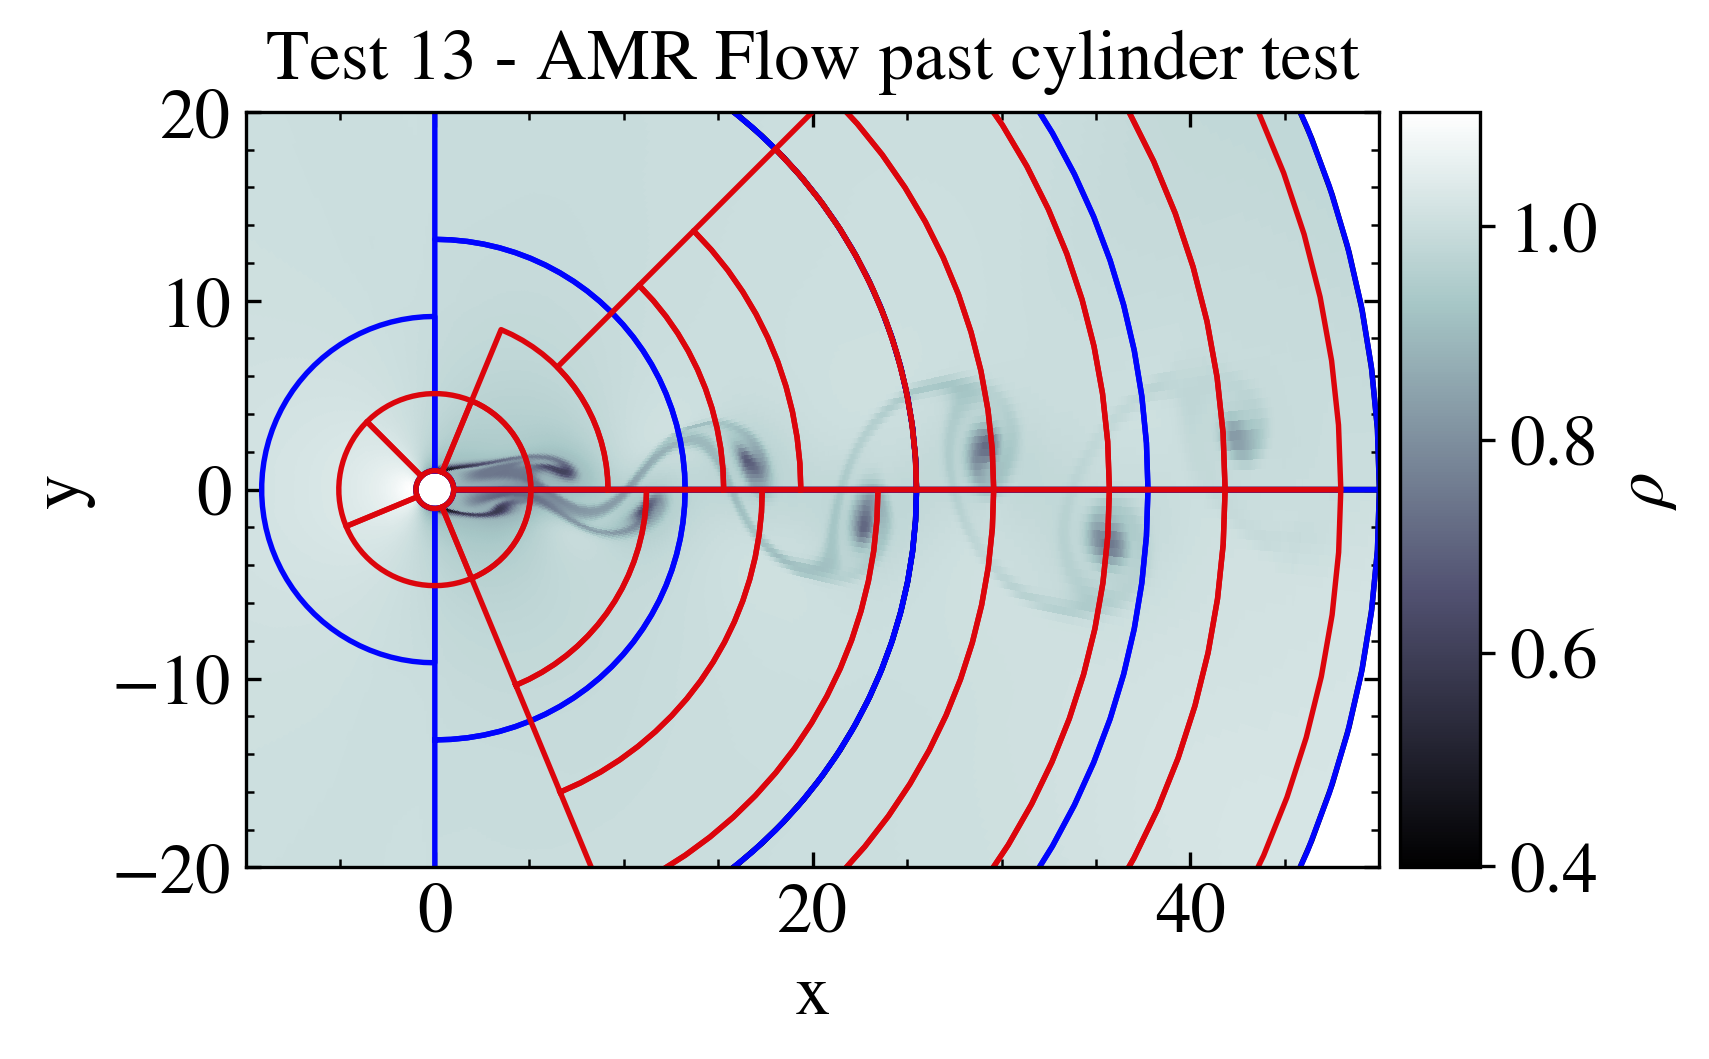
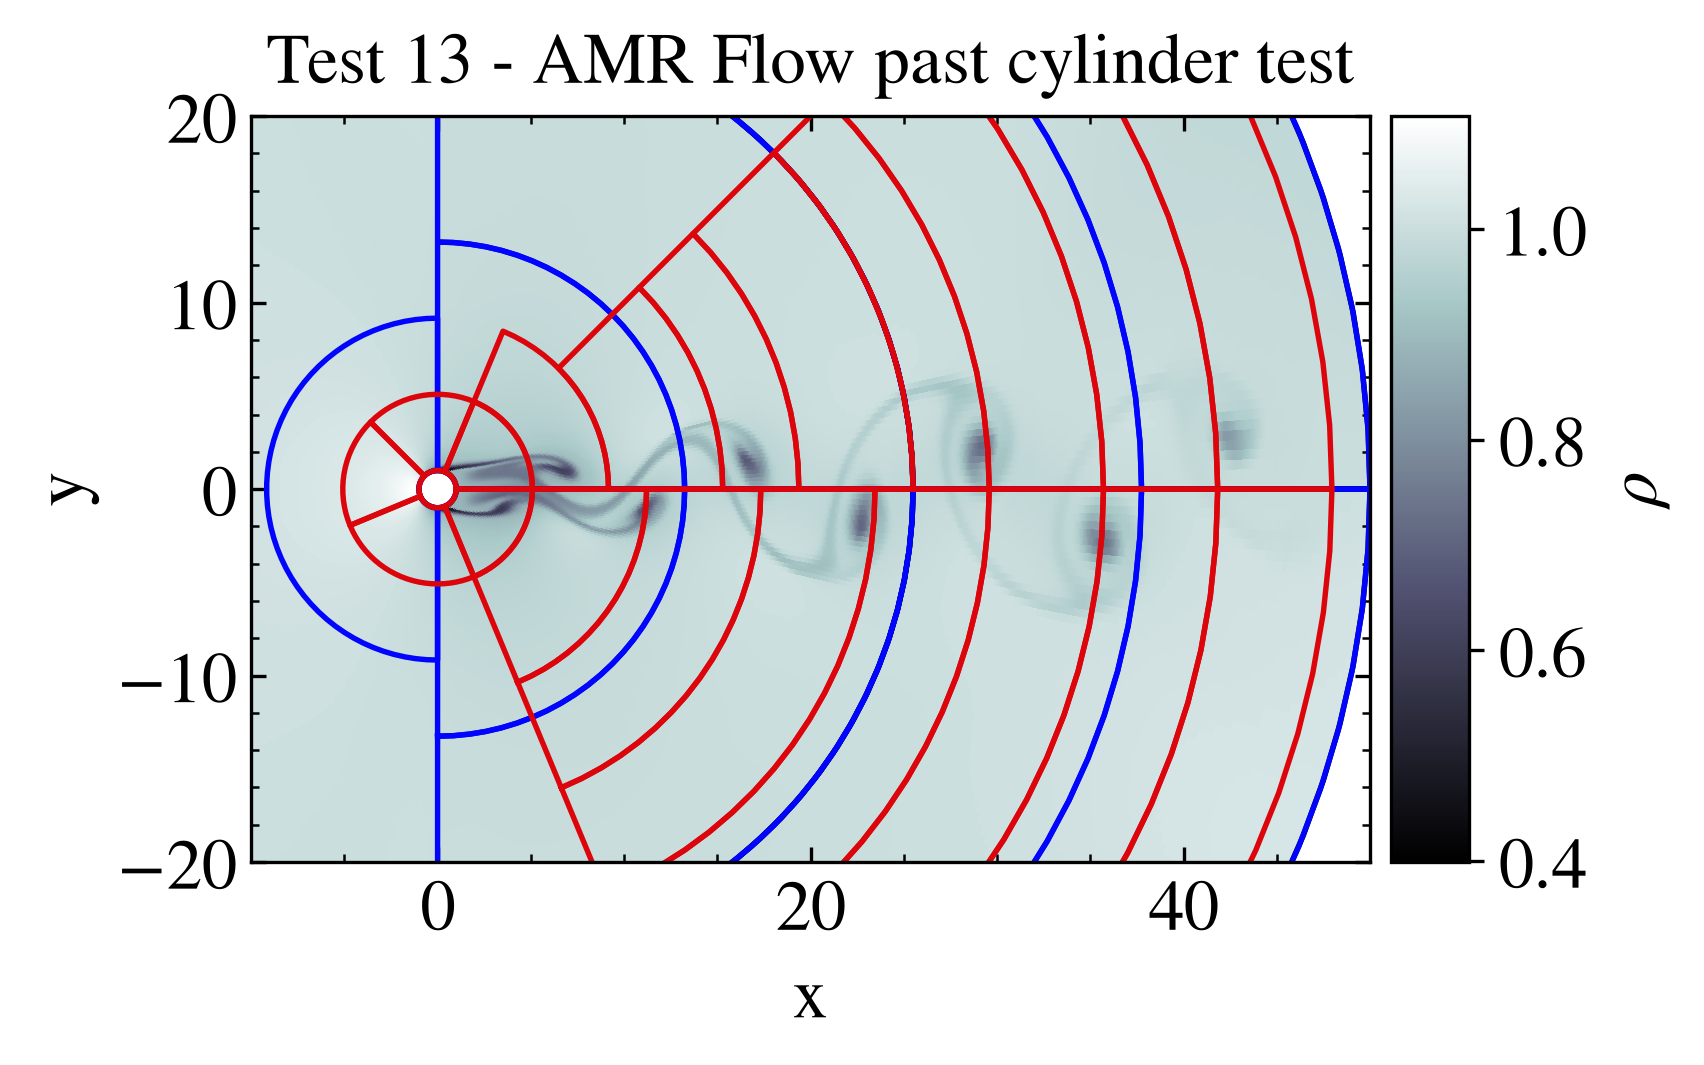
158 amr box colours not displaying correctly in cartesian geometry (#159)
* fixed small amr bug ---> colors in cartesian geometry for oplotbox

* messed up with uv versions

* updated changelog

diff --git a/src/pyPLUTO/amr.py b/src/pyPLUTO/amr.py
@@ -472,6 +472,12 @@ def oplotbox(
     npl = lrange[1] - lrange[0] + 1
     lpls = [lrange[0] + v for v in range(npl)]
     cols = cval[0:nlev] if cval is not None else self.color[0:nlev]
+
+    # A color given by hand paints every box, since it is the color of the
+    # plot method and would otherwise clash with the one of each level
+    if "c" in kwargs:
+        cols = [kwargs.pop("c")] * nlev
+
     # Get the offset and the type of slice
     Slice = 0
     inds = "k"
@@ -507,7 +513,7 @@ def oplotbox(
                     self.plot(
                         [x0, x1, x1, x0, x0],
                         [y0, y0, y1, y1, y0],
-                        color=cols[il],
+                        c=cols[il],
                         ax=ax,
                         **kwargs,
                     )

diff --git a/CHANGELOG.md b/CHANGELOG.md
@@ -5,6 +5,12 @@ The format follows [Keep a Changelog](https://keepachangelog.com/en/1.1.0/).
 
 ---
 
+## [1.2.5] — 2026-09-23
+
+### Fixed
+- AMR boxes: in CARTESIAN geometry `oplotbox` passed the level colour to `plot` as `color`, which that method does not read, so every box took the next colour of the palette instead of the colour of its level. A single colour for the whole overplot can now be given with `c`, which used to clash with the per-level one.
+
+
 ## [1.2.4] — 2026-07-06
 
 ### Fixed
